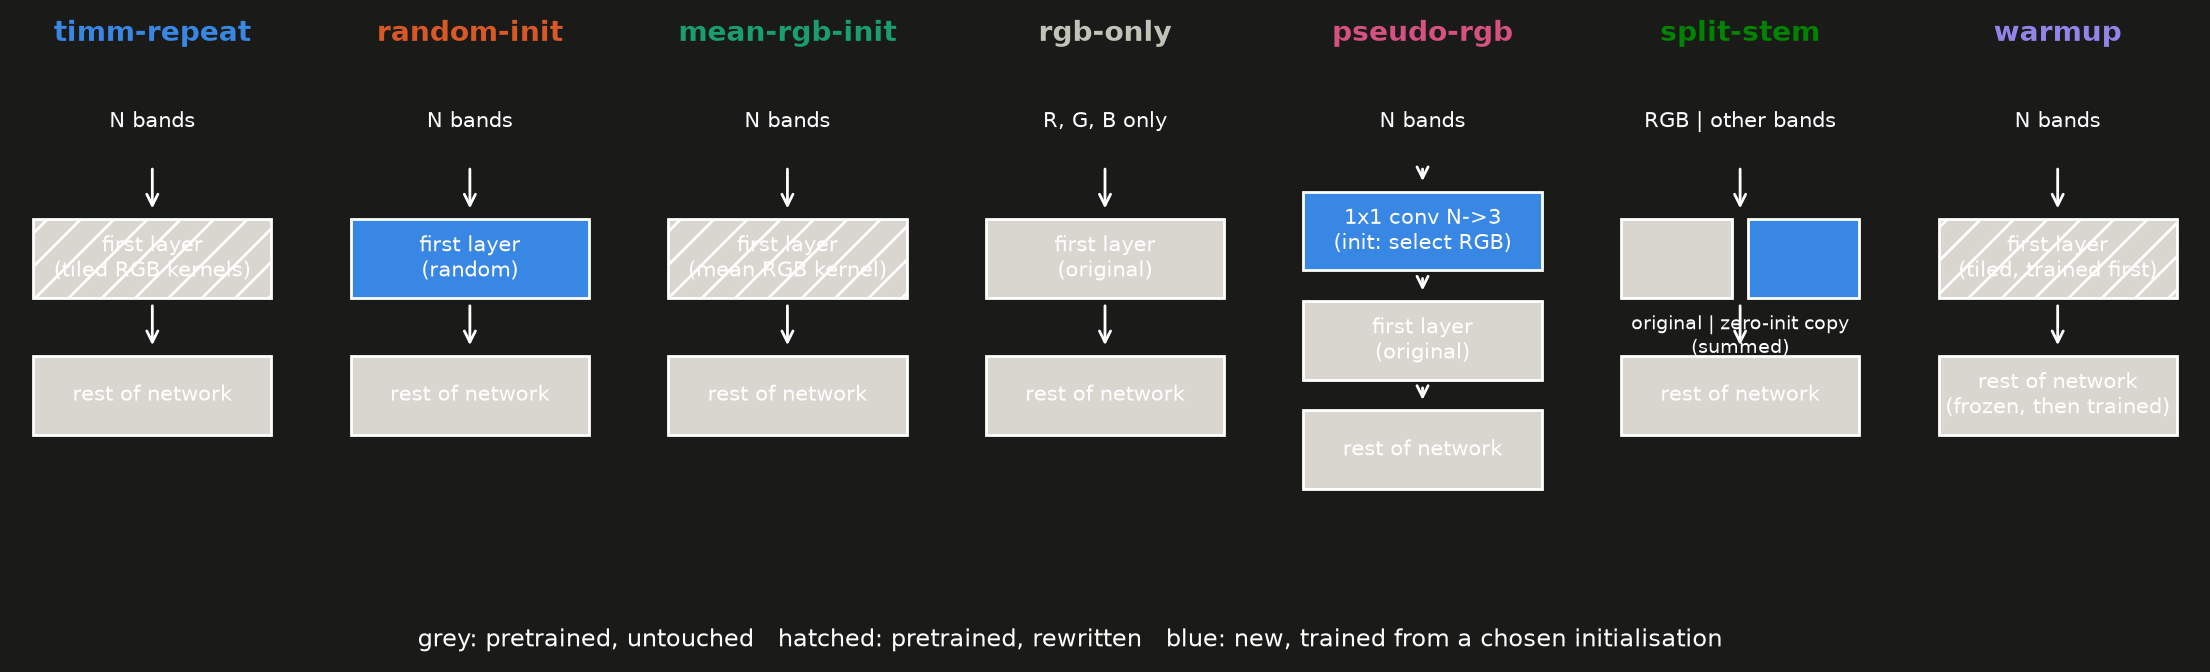
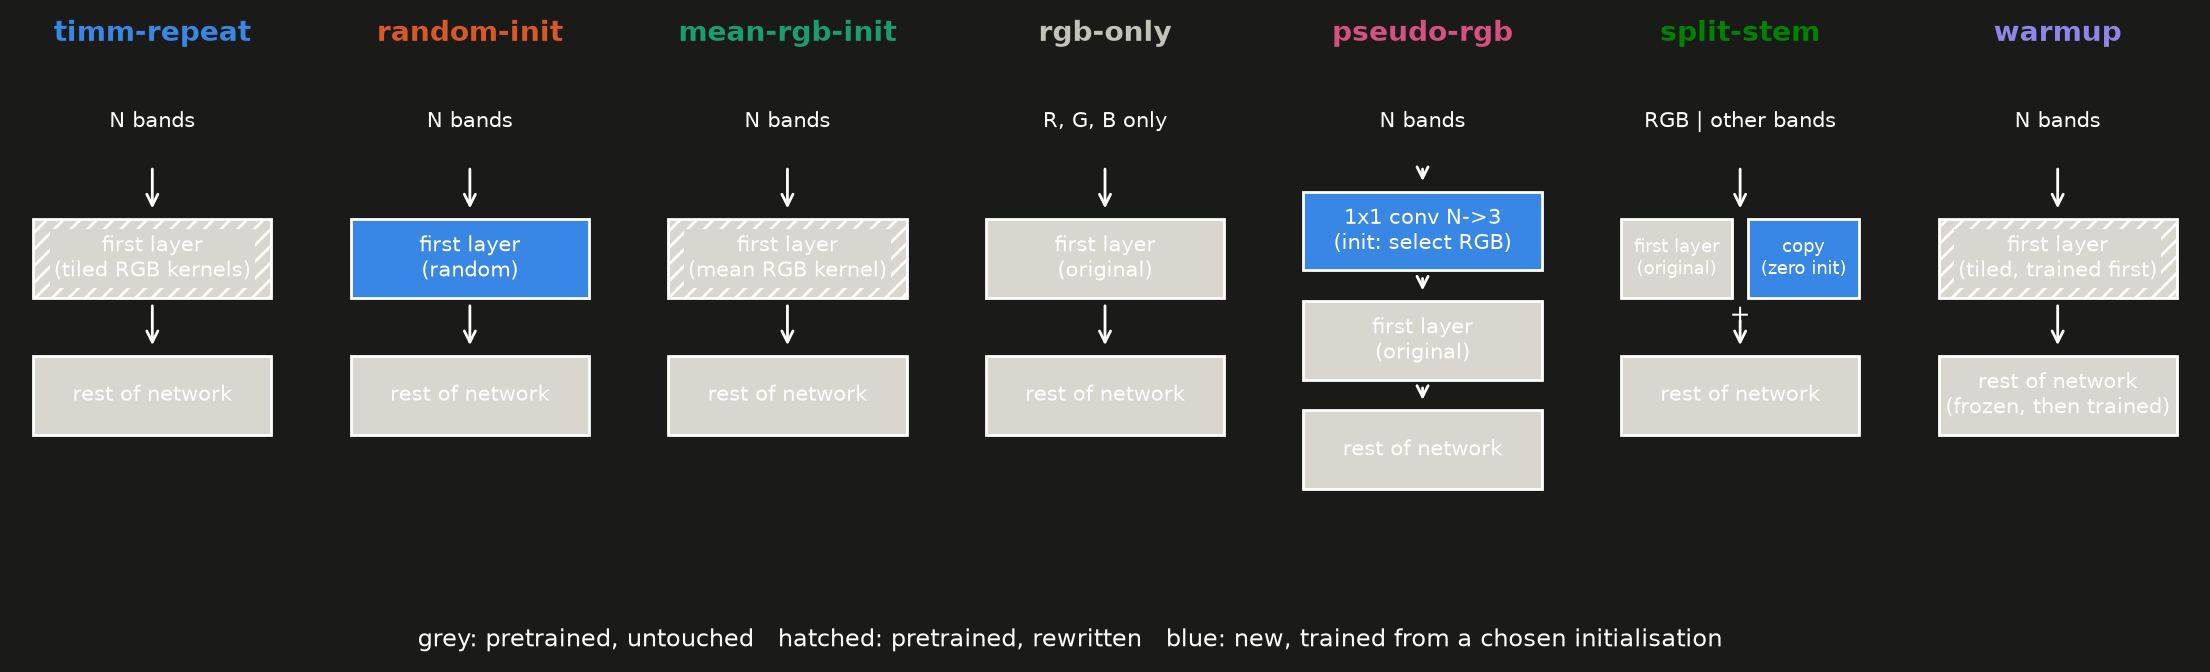
Readable adapter schematic; post tables as includes

diff --git a/experiments/make_figures.py b/experiments/make_figures.py
@@ -113,10 +113,10 @@ def fig_adapters(colors):
         "mean-rgb-init": [("N bands", None), ("first layer\n(mean RGB kernel)", "pre-mod"), ("rest of network", "pre")],
         "rgb-only": [("R, G, B only", None), ("first layer\n(original)", "pre"), ("rest of network", "pre")],
         "pseudo-rgb": [("N bands", None), ("1x1 conv N->3\n(init: select RGB)", "new"), ("first layer\n(original)", "pre"), ("rest of network", "pre")],
-        "split-stem": [("RGB | other bands", None), ("original | zero-init copy\n(summed)", "split"), ("rest of network", "pre")],
+        "split-stem": [("RGB | other bands", None), ("original|zero-init", "split"), ("rest of network", "pre")],
         "warmup": [("N bands", None), ("first layer\n(tiled, trained first)", "pre-mod"), ("rest of network\n(frozen, then trained)", "pre")],
     }
-    style = {"pre": dict(fc="#d8d6cf", ec=ink), "pre-mod": dict(fc="#d8d6cf", ec=ink, hatch="//"), "new": dict(fc=colors["timm-repeat"], ec=ink), None: dict(fc="none", ec="none")}
+    style = {"pre": dict(fc="#d8d6cf", ec=ink), "pre-mod": dict(fc="#d8d6cf", ec=ink, hatch="////", lw=1), "new": dict(fc=colors["timm-repeat"], ec=ink), None: dict(fc="none", ec="none")}
     for ax, name in zip(axes, ADAPTERS):
         ax.axis("off"); ax.set_xlim(0, 1); ax.set_ylim(0, 1); ax.set_title(name, fontsize=10, color=colors[name], fontweight="bold")
         blocks = specs[name]; h = 0.16; gap = (0.95 - h * len(blocks)) / (len(blocks) + 1)
@@ -124,12 +124,15 @@ def fig_adapters(colors):
             y = 0.95 - (i + 1) * (h + gap) + gap
             if kind == "split":
                 ax.add_patch(Rectangle((0.05, y), 0.42, h, **style["pre"])); ax.add_patch(Rectangle((0.53, y), 0.42, h, **style["new"]))
-                ax.text(0.5, y - 0.03, label, ha="center", va="top", fontsize=7)
+                ax.text(0.26, y + h / 2, "first layer\n(original)", ha="center", va="center", fontsize=6.5, color=ink)
+                ax.text(0.74, y + h / 2, "copy\n(zero init)", ha="center", va="center", fontsize=6.5, color="white")
+                ax.text(0.5, y - 0.012, "+", ha="center", va="top", fontsize=9, color=ink)
             else:
                 ax.add_patch(Rectangle((0.05, y), 0.9, h, **style[kind]))
-                ax.text(0.5, y + h / 2, label, ha="center", va="center", fontsize=7.5, color="white" if kind == "new" else ink)
+                bbox = dict(fc="#d8d6cf", ec="none", pad=1.5) if kind == "pre-mod" else None
+                ax.text(0.5, y + h / 2, label, ha="center", va="center", fontsize=7.5, color="white" if kind == "new" else ink, bbox=bbox)
             if i < len(blocks) - 1:
-                ax.annotate("", xy=(0.5, y - gap + 0.01), xytext=(0.5, y - 0.005), arrowprops=dict(arrowstyle="->", lw=1, color=ink))
+                ax.annotate("", xy=(0.5, y - gap + 0.01), xytext=(0.5, y - (0.035 if kind == "split" else 0.005)), arrowprops=dict(arrowstyle="->", lw=1, color=ink))
     fig.text(0.5, -0.04, "grey: pretrained, untouched   hatched: pretrained, rewritten   blue: new, trained from a chosen initialisation", ha="center", fontsize=8.5)
     return fig
 
